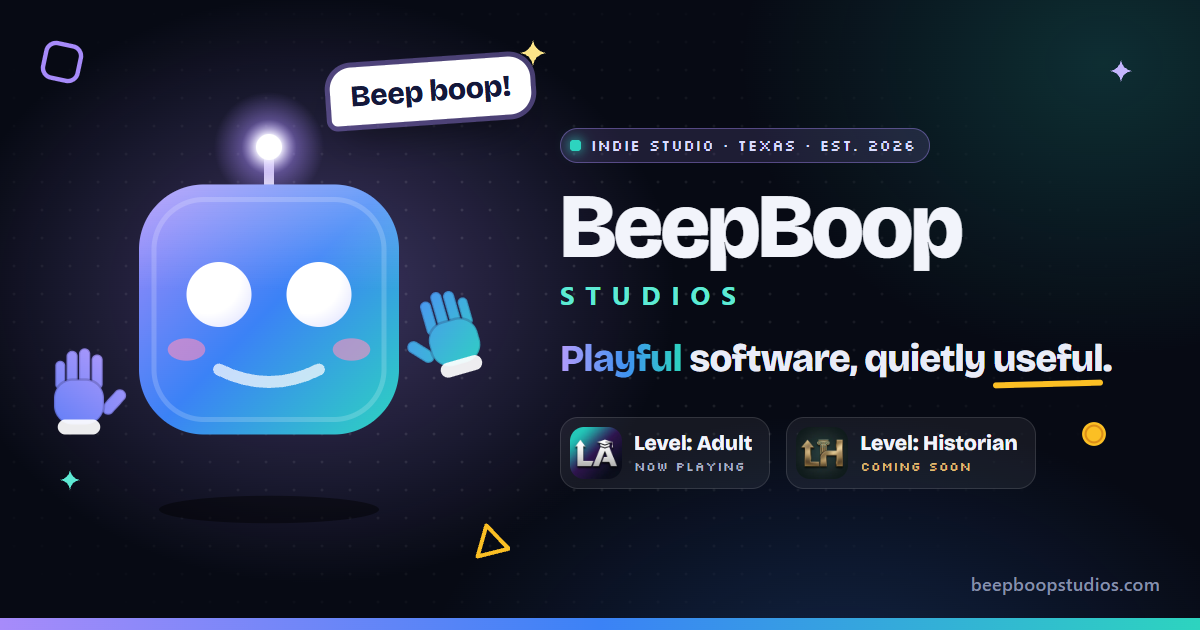
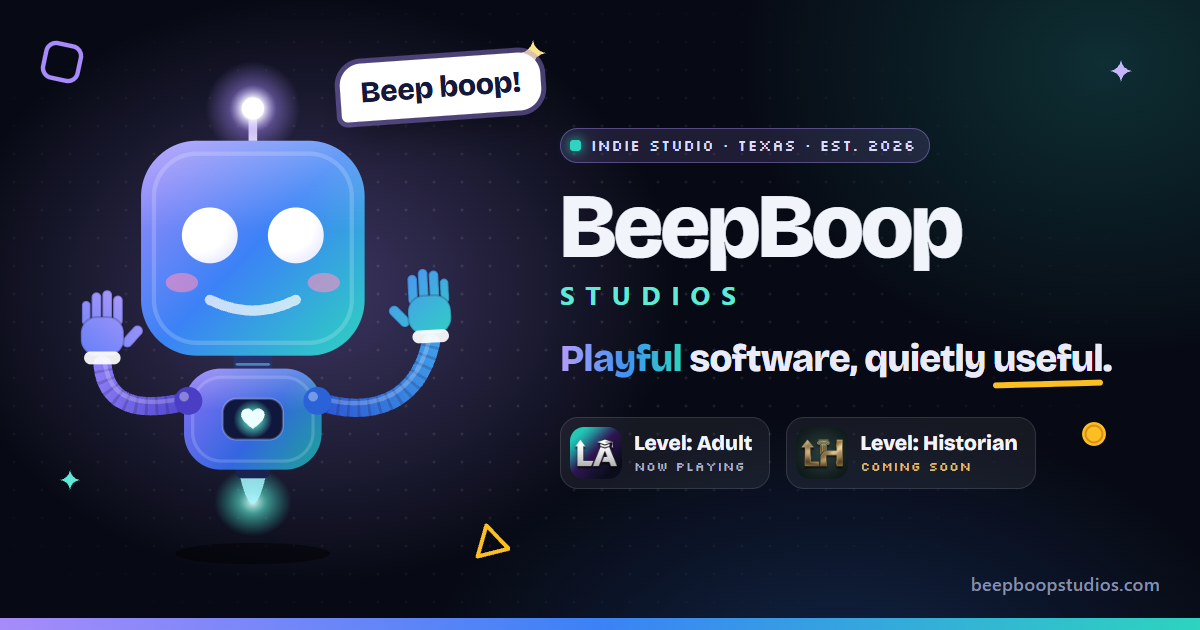
Hero robot gets a body; drop web and "never sell" copy
Robot (founder: the hands "look weird just floating next to a robot head"):
- A compact torso under the head (deeper version of the head gradient,
  smaller than the head), a little neck joint, a chest panel with a heart
  LED that pulses with the antenna and turns gold when he talks, and a
  hover jet with a flickering flame. The shadow now sits under the jet.
- Ribbed rubber hose arms plug into shoulder joints and end in the hands.
  The whole arm swings from the shoulder when he waves (wrist wiggles
  too), so hands stay attached through idle sway, the hello wave, click
  squash, party mode, head tilt and the Konami shades. The head now tilts
  on the neck. Reduced motion shows a still, connected wave.
- og.png re-rendered with the same robot.

Copy (founder):
- Level: Adult is now iOS and Android only: removed "Or play it in your
  browser" and "the web" from the description. The nav pill still links
  to leveladult.app.
- "Privacy respecting / We never sell your data..." is now "Clear about
  your data / Our privacy policy spells out what we collect and why, in
  plain words." Privacy and Terms pages untouched.

Changed region(s): [[0.0308, 0.0603, 0.4625, 0.8444]]

diff --git a/index.html b/index.html
@@ -319,11 +319,15 @@
   }
   .bot:focus-visible { outline-offset: -6px; border-radius: 48px; }
   .bot-svg { width: 100%; height: auto; overflow: visible; }
-  .bot-shadow, .bot-float, .bot-squash, .ant-glow, .ant-ring, .eye, .bot-shades, .hat-in, .hand-bob, .hand-in { transform-box: fill-box; }
+  .bot-shadow, .bot-float, .bot-squash, .ant-glow, .ant-ring, .eye, .bot-shades, .hat-in, .chest-glow, .jet-flame, .jet-glow { transform-box: fill-box; }
+  /* Arms swing from the shoulder (local 0 0); hands wiggle at the wrist (local 0 26). */
+  .arm-swing { transform-box: view-box; transform-origin: 0 0; animation: sway 4.4s ease-in-out infinite; }
+  .arm-l .arm-swing { animation-delay: -2.2s; }
+  .hand-wig { transform-box: view-box; transform-origin: 0 26px; }
   .bot-shadow { fill: #000; opacity: 0.5; transform-origin: center; animation: shadow 4.4s ease-in-out infinite; }
   .bot-float { animation: bob 4.4s ease-in-out infinite; }
   @keyframes bob { 0%, 100% { transform: translateY(0); } 50% { transform: translateY(-14px); } }
-  @keyframes shadow { 0%, 100% { transform: scale(1); opacity: 0.5; } 50% { transform: scale(0.82); opacity: 0.3; } }
+  @keyframes shadow { 0%, 100% { transform: scale(1); opacity: 0.45; } 50% { transform: scale(0.84); opacity: 0.28; } }
   .bot-squash { transform-origin: 50% 100%; }
   .bot-squash.boing { animation: boing .62s var(--spring); }
   @keyframes boing {
@@ -357,17 +361,27 @@
   .bot-svg.cool .eye, .bot-svg.cool .eye-arc { opacity: 0; }
   .hat-in { transform-origin: 50% 100%; transform: scale(0) rotate(-30deg); transition: transform .5s var(--spring); }
   .bot-svg.party .hat-in { transform: none; }
-  .hand-bob { animation: handbob 4.4s ease-in-out infinite; }
-  .bot-hand-l .hand-bob { animation-delay: -1.2s; }
-  @keyframes handbob { 0%, 100% { transform: translateY(0); } 50% { transform: translateY(-20px); } }
-  .hand-in { transform-origin: 50% 100%; }
-  .hand-in.wave { animation: wave 1.5s ease-in-out; }
-  @keyframes wave {
+  @keyframes sway { 0%, 100% { transform: rotate(0deg); } 50% { transform: rotate(-5deg); } }
+  .arm-r.wave .arm-swing { animation: armwave 1.6s ease-in-out; }
+  .arm-r.wave .hand-wig { animation: wrist 1.6s ease-in-out; }
+  @keyframes armwave {
     0%, 100% { transform: rotate(0deg); }
-    15% { transform: rotate(-24deg); } 30% { transform: rotate(16deg); }
-    45% { transform: rotate(-22deg); } 60% { transform: rotate(14deg); } 80% { transform: rotate(-8deg); }
+    15% { transform: rotate(-7deg); } 32% { transform: rotate(15deg); }
+    50% { transform: rotate(-6deg); } 68% { transform: rotate(13deg); } 85% { transform: rotate(-3deg); }
   }
-  .bot-svg.party .bot-hand .hand-in { animation: wave 1s ease-in-out 3; }
+  @keyframes wrist {
+    0%, 100% { transform: rotate(0deg); }
+    15% { transform: rotate(-16deg); } 32% { transform: rotate(14deg); }
+    50% { transform: rotate(-16deg); } 68% { transform: rotate(12deg); } 85% { transform: rotate(-6deg); }
+  }
+  .bot-svg.party .arm-swing { animation: armwave 1s ease-in-out 3; }
+  .bot-svg.party .hand-wig { animation: wrist 1s ease-in-out 3; }
+  .chest-glow { transform-origin: center; animation: pulse 2.2s ease-in-out infinite; }
+  .chest-heart { transition: fill .3s; }
+  .bot-svg[data-mood="talk"] .chest-heart, .bot-svg.party .chest-heart { fill: #fde68a; }
+  .jet-flame { transform-origin: 50% 0%; animation: flicker .28s ease-in-out infinite alternate; }
+  .jet-glow { transform-origin: 50% 20%; animation: pulse 2.2s ease-in-out infinite; }
+  @keyframes flicker { from { transform: scaleY(0.82) scaleX(1.06); opacity: 0.7; } to { transform: scaleY(1.08) scaleX(0.94); opacity: 0.95; } }
 
   .bubble {
     position: absolute; z-index: 3;
@@ -518,14 +532,6 @@
   a.store-badge:focus-visible { border-radius: 12px; }
   /* Store badges before launch: shown so people know where it's coming, but greyed out and not links. */
   .store-badge.is-soon { opacity: 0.42; filter: grayscale(1); cursor: default; }
-  .web-fallback { margin-top: 16px; font-size: 15px; color: var(--faint); }
-  .web-fallback a {
-    display: inline-flex; align-items: center; min-height: 44px;
-    color: var(--dim); font-weight: 700;
-    text-decoration: underline; text-decoration-color: rgba(255,255,255,0.25); text-underline-offset: 4px;
-    transition: color .2s, text-decoration-color .2s;
-  }
-  .web-fallback a:hover { color: var(--sky); text-decoration-color: var(--sky); }
 
   /* Phone */
   .la-phone { position: relative; display: grid; justify-items: center; padding: 10px 0 0; }
@@ -769,7 +775,7 @@
   .how-ico svg { width: 100%; height: 100%; overflow: visible; }
   .how-card h3 { font-size: 22px; margin-bottom: 10px; letter-spacing: -0.015em; }
   .how-card p { color: var(--dim); font-size: 15.5px; }
-  .how-card a { color: var(--hc); font-weight: 700; }
+  .how-card a { color: var(--hc); font-weight: 700; padding: 12px 0; } /* taller tap area, same line height */
   .how-card .a-bob { transform-box: fill-box; transform-origin: 50% 100%; }
   .how-card:hover .a-bob { animation: hopsmall .6s var(--spring); }
   .how-card:hover .a-bob2 { animation: hopsmall .6s var(--spring) .12s; }
@@ -942,8 +948,9 @@
       animation-duration: 0.001ms !important; animation-iteration-count: 1 !important; animation-delay: 0s !important;
       transition-duration: 0.001ms !important; transition-delay: 0s !important;
     }
-    .glow, .shape > i, .track, .bot-float, .bot-shadow, .hand-bob, .ant-ring, .gear, .peek, .peek-say, .chip-dot, .led, .app-icon::after, .lh-title, .bot-hint.show, .peeker .bm-eye, .a-blink, .a-pulse { animation: none !important; }
+    .glow, .shape > i, .track, .bot-float, .bot-shadow, .arm-swing, .hand-wig, .chest-glow, .jet-flame, .jet-glow, .ant-ring, .gear, .peek, .peek-say, .chip-dot, .led, .app-icon::after, .lh-title, .bot-hint.show, .peeker .bm-eye, .a-blink, .a-pulse { animation: none !important; }
     .ant-glow { animation: none !important; opacity: 0.8; }
+    .arm-r .hand-wig { transform: rotate(-10deg); }
     .ant-ring { opacity: 0; }
     .track { transform: none; }
     .js .cart-lh .stamp { opacity: 1; }
@@ -1056,7 +1063,7 @@
       <div class="hero-bot">
         <p class="bubble" aria-hidden="true"><span class="bubble-text">Beep boop! Hello, human.</span></p>
         <button class="bot" type="button" aria-label="Say hi to the BeepBoop robot">
-          <svg class="bot-svg" viewBox="-60 -50 376 372" aria-hidden="true" focusable="false">
+          <svg class="bot-svg" viewBox="-70 -50 400 480" aria-hidden="true" focusable="false">
             <defs>
               <linearGradient id="hb-bg" x1="24" y1="40" x2="232" y2="240" gradientUnits="userSpaceOnUse">
                 <stop offset="0" stop-color="#a78bfa"/><stop offset="0.5" stop-color="#3b82f6"/><stop offset="1" stop-color="#2dd4bf"/>
@@ -1073,20 +1080,33 @@
                 <stop offset="0" stop-color="#ffffff" stop-opacity="0.26"/><stop offset="0.42" stop-color="#ffffff" stop-opacity="0"/>
               </linearGradient>
               <linearGradient id="hb-hat" x1="0" y1="0" x2="1" y2="1"><stop offset="0" stop-color="#fde68a"/><stop offset="1" stop-color="#f472b6"/></linearGradient>
+              <linearGradient id="hb-body" x1="64" y1="252" x2="192" y2="346" gradientUnits="userSpaceOnUse">
+                <stop offset="0" stop-color="#8a72f5"/><stop offset="0.55" stop-color="#3466e0"/><stop offset="1" stop-color="#1ba596"/>
+              </linearGradient>
+              <linearGradient id="hb-arm-l" x1="0" y1="0" x2="80" y2="-34" gradientUnits="userSpaceOnUse"><stop offset="0" stop-color="#5146cf"/><stop offset="1" stop-color="#8b7cf6"/></linearGradient>
+              <linearGradient id="hb-arm-r" x1="0" y1="0" x2="96" y2="-70" gradientUnits="userSpaceOnUse"><stop offset="0" stop-color="#2d58d4"/><stop offset="1" stop-color="#3f9be8"/></linearGradient>
+              <radialGradient id="hb-jet"><stop offset="0" stop-color="#ecfeff" stop-opacity="0.95"/><stop offset="0.35" stop-color="#5eead4" stop-opacity="0.6"/><stop offset="1" stop-color="#2dd4bf" stop-opacity="0"/></radialGradient>
+              <radialGradient id="hb-led"><stop offset="0" stop-color="#ffffff" stop-opacity="0.95"/><stop offset="0.35" stop-color="#5eead4" stop-opacity="0.8"/><stop offset="1" stop-color="#5eead4" stop-opacity="0"/></radialGradient>
               <clipPath id="hb-hatclip"><path d="M -30 0 L 0 -80 L 30 0 Z"/></clipPath>
             </defs>
-            <ellipse class="bot-shadow" cx="128" cy="300" rx="88" ry="11"/>
+            <ellipse class="bot-shadow" cx="128" cy="424" rx="72" ry="10"/>
             <g class="bot-float">
               <g class="bot-squash">
-                <g class="bot-hand bot-hand-l" transform="translate(-24 214) scale(-1 1)"><g class="hand-bob"><g class="hand-in">
-                  <g fill="url(#hb-hand-l)" stroke="#1e1b4b" stroke-opacity="0.22" stroke-width="2">
-                    <rect x="-19" y="-38" width="9" height="28" rx="4.5"/><rect x="-9" y="-43" width="9" height="32" rx="4.5"/>
-                    <rect x="1" y="-41" width="9" height="30" rx="4.5"/><rect x="11" y="-33" width="8" height="23" rx="4"/>
-                    <rect x="-33" y="-12" width="10" height="24" rx="5" transform="rotate(-42 -28 0)"/>
-                    <rect x="-20" y="-18" width="40" height="36" rx="15"/>
-                  </g>
-                  <rect x="-17" y="14" width="34" height="12" rx="6" fill="#ffffff" opacity="0.92"/>
-                </g></g></g>
+                <g class="bot-jet">
+                  <ellipse class="jet-glow" cx="128" cy="376" rx="36" ry="32" fill="url(#hb-jet)"/>
+                  <path class="jet-flame" d="M 116 352 Q 128 404 140 352 Z" fill="#a5f3fc" opacity="0.85"/>
+                  <rect x="112" y="338" width="32" height="16" rx="6" fill="#1a2350"/>
+                </g>
+                <rect x="110" y="226" width="36" height="32" rx="9" fill="#26306a"/>
+                <path d="M 113 248 h 30 M 113 254 h 30" stroke="#7dd3fc" stroke-opacity="0.5" stroke-width="2.5" stroke-linecap="round"/>
+                <g class="bot-torso">
+                  <rect x="64" y="252" width="128" height="94" rx="34" fill="url(#hb-body)"/>
+                  <rect x="64" y="252" width="128" height="94" rx="34" fill="url(#hb-sheen)"/>
+                  <rect x="72" y="260" width="112" height="78" rx="27" fill="none" stroke="#ffffff" stroke-opacity="0.16" stroke-width="3"/>
+                  <rect x="100" y="280" width="56" height="38" rx="13" fill="#10173d" stroke="#ffffff" stroke-opacity="0.22" stroke-width="2"/>
+                  <circle class="chest-glow" cx="128" cy="299" r="18" fill="url(#hb-led)"/>
+                  <path class="chest-heart" d="M128 308 C121 303 117 299 117 295 C117 291.5 119.7 289 123 289 C125.2 289 127 290.2 128 292 C129 290.2 130.8 289 133 289 C136.3 289 139 291.5 139 295 C139 299 135 303 128 308 Z" fill="#ecfeff"/>
+                </g>
                 <g class="bot-head">
                   <g class="bot-antenna">
                     <line x1="128" y1="14" x2="128" y2="42" stroke="#ffffff" stroke-width="8" stroke-linecap="round" opacity="0.92"/>
@@ -1127,15 +1147,38 @@
                     <ellipse cx="0" cy="0" rx="31" ry="6" fill="#f472b6"/>
                   </g></g>
                 </g>
-                <g class="bot-hand bot-hand-r" transform="translate(284 178)"><g class="hand-bob"><g class="hand-in">
-                  <g fill="url(#hb-hand-r)" stroke="#1e1b4b" stroke-opacity="0.22" stroke-width="2">
-                    <rect x="-19" y="-38" width="9" height="28" rx="4.5"/><rect x="-9" y="-43" width="9" height="32" rx="4.5"/>
-                    <rect x="1" y="-41" width="9" height="30" rx="4.5"/><rect x="11" y="-33" width="8" height="23" rx="4"/>
-                    <rect x="-33" y="-12" width="10" height="24" rx="5" transform="rotate(-42 -28 0)"/>
-                    <rect x="-20" y="-18" width="40" height="36" rx="15"/>
-                  </g>
-                  <rect x="-17" y="14" width="34" height="12" rx="6" fill="#ffffff" opacity="0.92"/>
-                </g></g></g>
+                <g class="arm arm-l" transform="translate(68 282) scale(-1 1)"><g class="arm-swing">
+                  <path d="M 0 0 C 40 10, 76 8, 80 -34" fill="none" stroke="url(#hb-arm-l)" stroke-width="17" stroke-linecap="round"/>
+                  <path d="M 0 0 C 40 10, 76 8, 80 -34" fill="none" stroke="#1e1b4b" stroke-opacity="0.22" stroke-width="17" stroke-dasharray="2.5 7"/>
+                  <path d="M 0 0 C 40 10, 76 8, 80 -34" fill="none" stroke="#ffffff" stroke-opacity="0.22" stroke-width="4" stroke-linecap="round" transform="translate(-2 -4)"/>
+                  <g transform="translate(80 -60)"><g class="hand-wig">
+                      <g fill="url(#hb-hand-l)" stroke="#1e1b4b" stroke-opacity="0.22" stroke-width="2">
+                        <rect x="-19" y="-38" width="9" height="28" rx="4.5"/><rect x="-9" y="-43" width="9" height="32" rx="4.5"/>
+                        <rect x="1" y="-41" width="9" height="30" rx="4.5"/><rect x="11" y="-33" width="8" height="23" rx="4"/>
+                        <rect x="-33" y="-12" width="10" height="24" rx="5" transform="rotate(-42 -28 0)"/>
+                        <rect x="-20" y="-18" width="40" height="36" rx="15"/>
+                      </g>
+                      <rect x="-17" y="14" width="34" height="12" rx="6" fill="#ffffff" opacity="0.92"/>
+                  </g></g>
+                </g></g>
+                <g class="arm arm-r" transform="translate(188 282)"><g class="arm-swing">
+                  <path d="M 0 0 C 46 8, 92 -8, 96 -70" fill="none" stroke="url(#hb-arm-r)" stroke-width="17" stroke-linecap="round"/>
+                  <path d="M 0 0 C 46 8, 92 -8, 96 -70" fill="none" stroke="#1e1b4b" stroke-opacity="0.22" stroke-width="17" stroke-dasharray="2.5 7"/>
+                  <path d="M 0 0 C 46 8, 92 -8, 96 -70" fill="none" stroke="#ffffff" stroke-opacity="0.22" stroke-width="4" stroke-linecap="round" transform="translate(-2 -4)"/>
+                  <g transform="translate(96 -96)"><g class="hand-wig">
+                      <g fill="url(#hb-hand-r)" stroke="#1e1b4b" stroke-opacity="0.22" stroke-width="2">
+                        <rect x="-19" y="-38" width="9" height="28" rx="4.5"/><rect x="-9" y="-43" width="9" height="32" rx="4.5"/>
+                        <rect x="1" y="-41" width="9" height="30" rx="4.5"/><rect x="11" y="-33" width="8" height="23" rx="4"/>
+                        <rect x="-33" y="-12" width="10" height="24" rx="5" transform="rotate(-42 -28 0)"/>
+                        <rect x="-20" y="-18" width="40" height="36" rx="15"/>
+                      </g>
+                      <rect x="-17" y="14" width="34" height="12" rx="6" fill="#ffffff" opacity="0.92"/>
+                  </g></g>
+                </g></g>
+                <g class="shoulders">
+                  <circle cx="68" cy="282" r="13" fill="#4a3fc4"/><circle cx="64" cy="278" r="4.5" fill="#ffffff" opacity="0.35"/>
+                  <circle cx="188" cy="282" r="13" fill="#2a63d8"/><circle cx="184" cy="278" r="4.5" fill="#ffffff" opacity="0.35"/>
+                </g>
               </g>
             </g>
           </svg>
@@ -1170,7 +1213,7 @@
                 <p class="app-kicker">Life skills, played like a game.</p>
               </div>
             </div>
-            <p class="app-desc">A gamified life skills app. Take on quests, collect courses and learn from a faculty of professors with very big personalities, all at <strong>Functional U</strong>. On iOS, Android and the web.</p>
+            <p class="app-desc">A gamified life skills app. Take on quests, collect courses and learn from a faculty of professors with very big personalities, all at <strong>Functional U</strong>. On iOS and Android.</p>
             <ul class="perks" aria-label="Inside the app">
               <li style="--pc:#fbbf24"><svg viewBox="0 0 24 24" aria-hidden="true"><path d="M5 21V4M5 4h11l-2.5 4L16 12H5"/></svg>Quests</li>
               <li style="--pc:#7dd3fc"><svg viewBox="0 0 24 24" aria-hidden="true"><path d="M4 5.5A2.5 2.5 0 0 1 6.5 3H20v15H6.5A2.5 2.5 0 0 0 4 20.5zM4 20.5A2.5 2.5 0 0 0 6.5 23H20v-5"/></svg>Courses</li>
@@ -1186,9 +1229,6 @@
                 <img src="badge-google-play.svg" alt="Get Level: Adult on Google Play" width="196" height="58">
               </a>
             </div>
-            <p class="web-fallback">
-              Or <a href="https://leveladult.app">play it in your browser →</a>
-            </p>
           </div>
 
           <div class="la-phone">
@@ -1403,8 +1443,8 @@
               <path class="a-pulse" d="M32 50s-8-4.6-8-10a4.4 4.4 0 0 1 8-2.5 4.4 4.4 0 0 1 8 2.5c0 5.4-8 10-8 10z" fill="currentColor" stroke="none"/>
             </svg>
           </div>
-          <h3>Privacy respecting</h3>
-          <p>We never sell your data, and our <a href="privacy.html">privacy policy</a> says plainly what we collect and why.</p>
+          <h3>Clear about your data</h3>
+          <p>Our <a href="privacy.html">privacy policy</a> spells out what we collect and why, in plain words.</p>
         </li>
         <li class="how-card" style="--hc:#f472b6;--i:3;--tilt:1deg" data-reveal>
           <div class="how-ico" aria-hidden="true">

diff --git a/site.js b/site.js
@@ -220,7 +220,7 @@
     const eyes = $('.bot-eyes', svg)
     const head = $('.bot-head', svg)
     const squash = $('.bot-squash', svg)
-    const handR = $('.bot-hand-r .hand-in', svg)
+    const armR = $('.arm-r', svg)
     const heroBot = $('.hero-bot')
     const bubble = $('.bubble')
     const bubbleText = $('.bubble-text')
@@ -266,7 +266,7 @@
     const apply = () => {
       face.setAttribute('transform', 'translate(' + (cur.x * 13).toFixed(2) + ' ' + (cur.y * 10).toFixed(2) + ')')
       eyes.setAttribute('transform', 'translate(' + (cur.x * 5).toFixed(2) + ' ' + (cur.y * 4).toFixed(2) + ')')
-      head.setAttribute('transform', 'rotate(' + (cur.x * 6).toFixed(2) + ' 128 140)')
+      head.setAttribute('transform', 'rotate(' + (cur.x * 5).toFixed(2) + ' 128 246)') // tilts on the neck
     }
     const step = () => {
       raf = 0
@@ -284,7 +284,7 @@
       if (reduce || !heroOn) return
       const r = svg.getBoundingClientRect()
       const cx = r.left + r.width * 0.5
-      const cy = r.top + r.height * 0.42
+      const cy = r.top + r.height * 0.4
       lookAt((e.clientX - cx) / Math.max(240, window.innerWidth * 0.45), (e.clientY - cy) / Math.max(240, window.innerHeight * 0.5))
       lastPtr = now()
     }
@@ -327,15 +327,15 @@
     }
     setTimeout(chatter, 5600)
 
-    // Waves hello on arrival.
-    const wave = (hand) => {
-      if (reduce || !hand) return
-      hand.classList.remove('wave')
-      reflow(hand)
-      hand.classList.add('wave')
+    // Waves hello on arrival: the whole arm swings from the shoulder.
+    const wave = () => {
+      if (reduce || !armR) return
+      armR.classList.remove('wave')
+      reflow(armR)
+      armR.classList.add('wave')
     }
-    if (handR) handR.addEventListener('animationend', () => handR.classList.remove('wave'))
-    setTimeout(() => wave(handR), 900)
+    if (armR) armR.addEventListener('animationend', (e) => { if (e.animationName === 'armwave') armR.classList.remove('wave') })
+    setTimeout(wave, 900)
 
     // Hover makes it blush.
     bot.addEventListener('pointerenter', (e) => {
@@ -366,8 +366,8 @@
       if (reduce || !heroBot) return
       const r = svg.getBoundingClientRect()
       const hr = heroBot.getBoundingClientRect()
-      const ax = r.left - hr.left + ((128 + 60) / 376) * r.width
-      const ay = r.top - hr.top + ((10 + 50) / 372) * r.height
+      const ax = r.left - hr.left + ((128 + 70) / 400) * r.width
+      const ay = r.top - hr.top + ((10 + 50) / 480) * r.height
       for (let i = 0; i < n; i++) {
         const s = document.createElement('span')
         s.className = 'spark'
